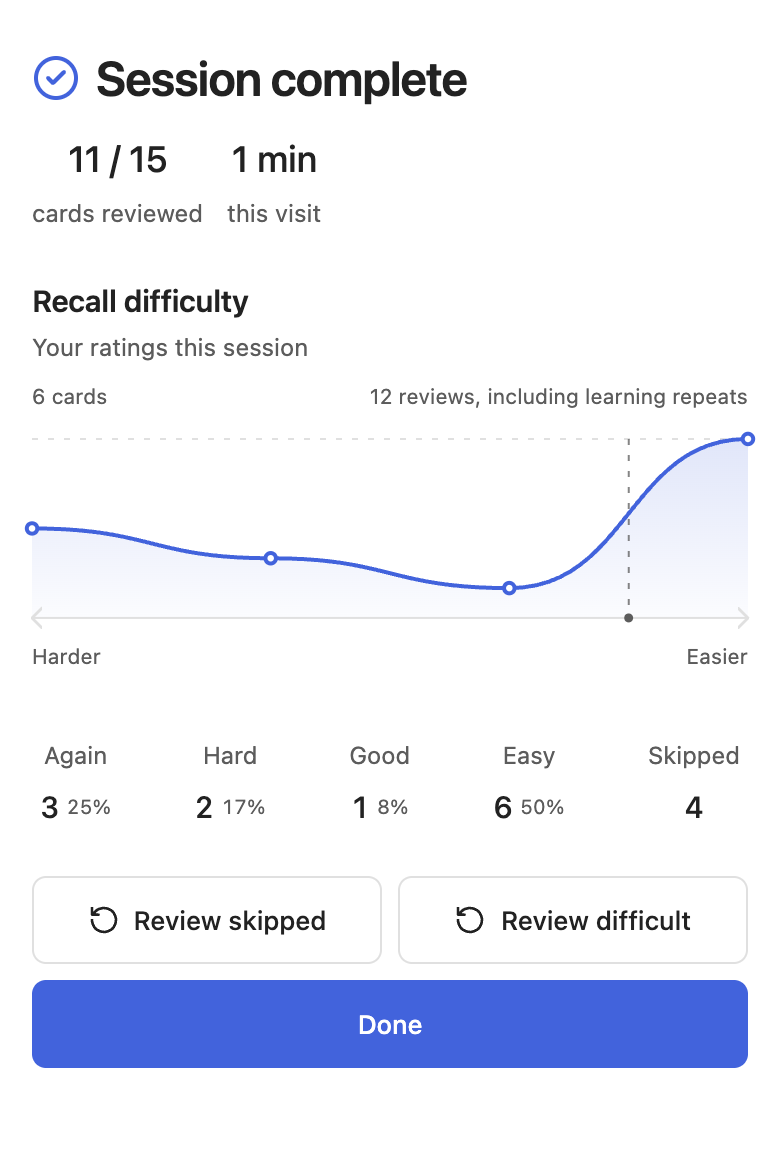
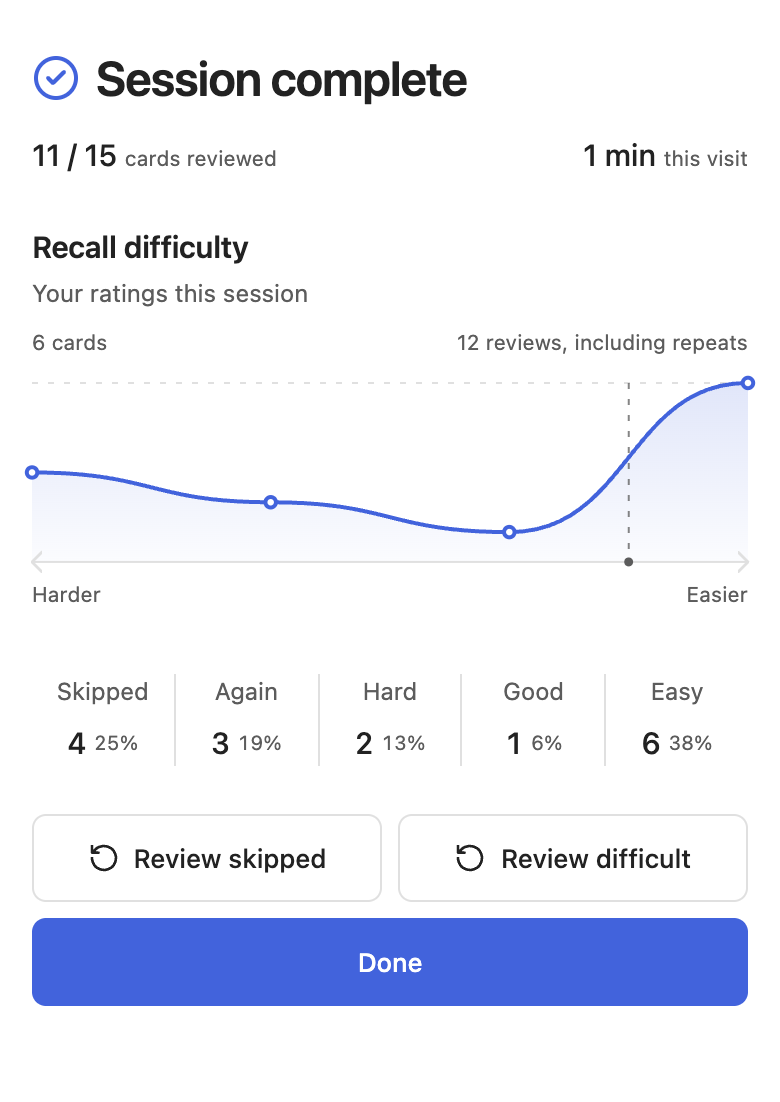
Refresh summary percentages and inline mobile stats comparisons

diff --git a/docs/images/ui-main-latest/audit-report.md b/docs/images/ui-main-latest/audit-report.md
@@ -1,5 +1,20 @@
 # Session summary refinement verification
 
+Latest source `cbd05c7adb0e8df23dd3c112c97b7a9ad395f0ba`. Screenshot baseline is upstream main `70056821914f0dae910b52a20f1fa3329b04d0ac`.
+
+- Axis and arrowhead strokes use the same border color and non-scaling 1px width as element separators. Direction labels use the plot metadata size and say Harder and Easier.
+- Skipped is now in the ratings row. Skipped is first and includes its percentage. All five cells share the same denominator (rating events plus skips), with vertical separators only between cells. Plot frequencies and median remain based on rated reviews. Direction labels are 4px closer to the plot.
+- Review totals including repeats sit beside the peak count above the plot. The row measures its actual available width and switches to an info icon with the full message when the text cannot fit, then restores the text when space returns.
+- Compact summary stats now pair each count and label inline, reduce the type size and distribute both pairs across one row. On compact panes, review buttons fill the first row and Done fills the second row. Action heights stretch consistently. Skipped-only and Cram sessions retain a valid count without a false rating plot.
+- All 24 browser cases passed across 320, 390, 640, 641, 768, 1100 and 1440px widths, plus a narrow pane in a wide window, in both themes. They verify stroke parity, typography, spacing, skipped data, mobile action rows, page overflow and text-to-icon resize recovery. Skipped-only and Cram states are included.
+- Full npm run check passed with 767 tests in 95 suites. Existing skipped-session assertions were updated. Formatting, typecheck, source lint, CSS lint, tests, build and release verification all passed. No new test cases were added.
+- The existing two summary comparisons were refreshed. Gallery total remains 50 pairs.
+- The isolated test plugin and protected-file hashes are checked before completion.
+
+## Prior verification at `4ea1e1e`
+
+# Session summary refinement verification
+
 Latest source `4ea1e1e5b4d6d704c7f3521abac34359c2b0b3d7`. Screenshot baseline is upstream main `70056821914f0dae910b52a20f1fa3329b04d0ac`.
 
 - Axis and arrowhead strokes use the same border color and non-scaling 1px width as element separators. Direction labels use the plot metadata size and say Harder and Easier.
